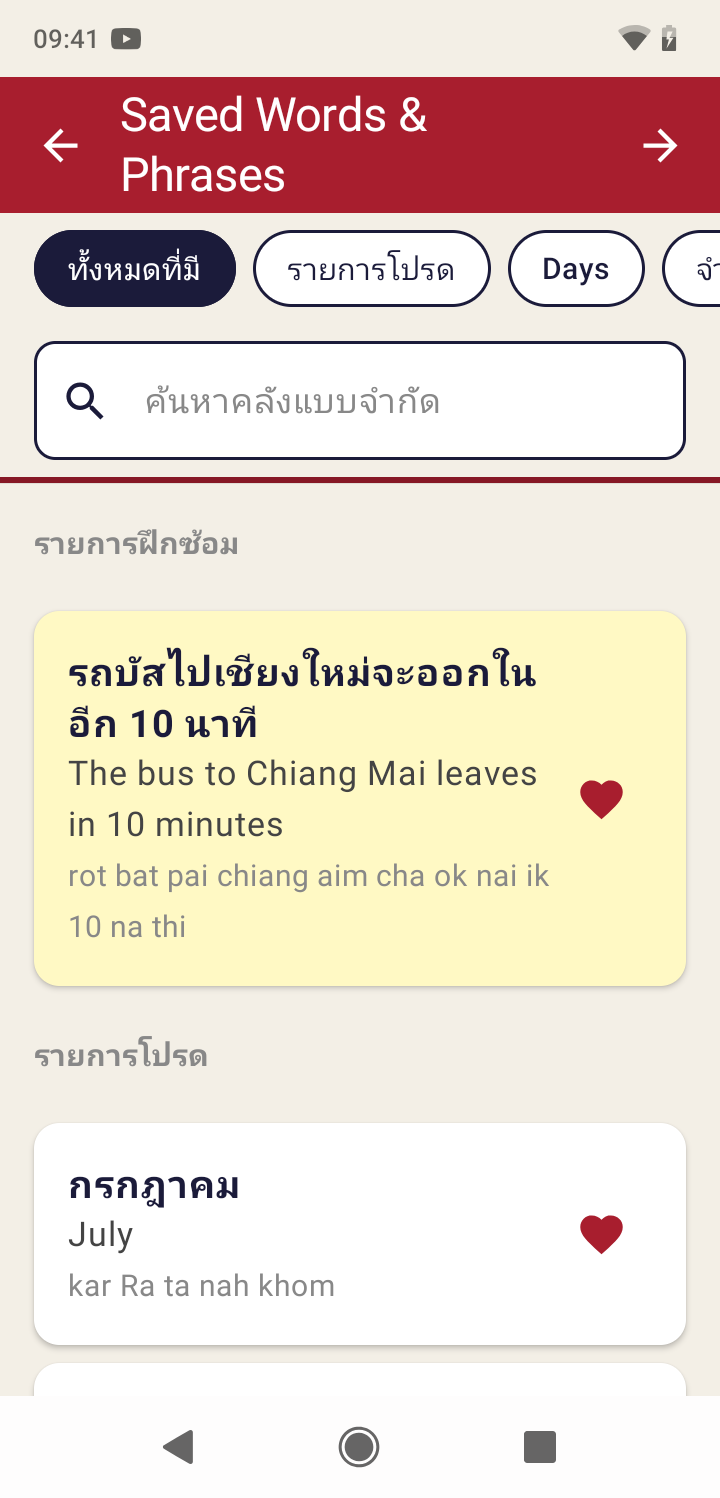
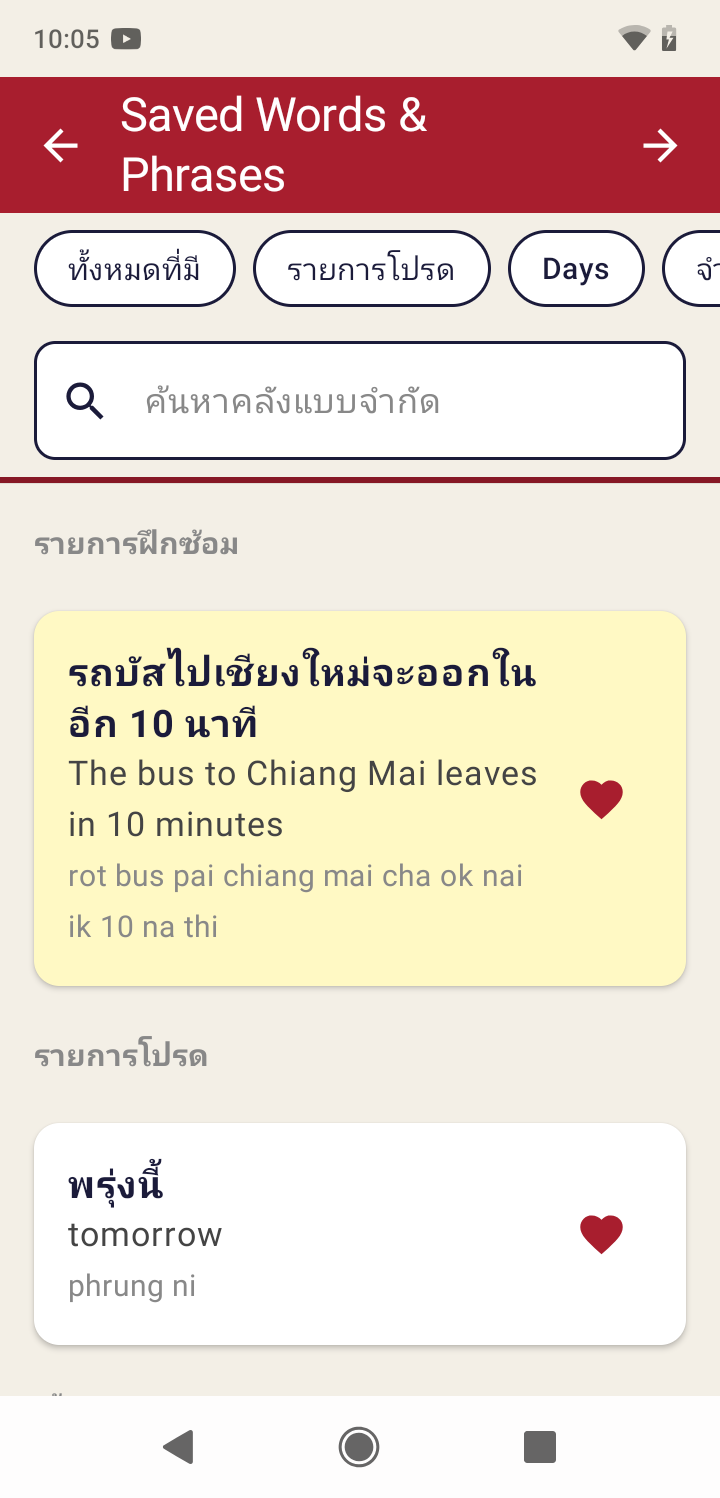
[CHECKPOINT] Replace the Thai Saved Words screenshot with the corrected transliteration.

diff --git a/index.html b/index.html
@@ -234,7 +234,7 @@
             <div class="phone-frame">
               <img src="assets/phone/phone-drawer.png?v=20260825b"
                    data-src-en="assets/phone/phone-drawer.png?v=20260825b"
-                   data-src-th="assets/phone/th/phone-drawer.png?v=20260920c"
+                   data-src-th="assets/phone/th/phone-drawer.png?v=20260920d"
                    alt="">
             </div>
             <figcaption class="phone-caption" data-i18n="home.cap3">Saved library &amp; favourites</figcaption>
